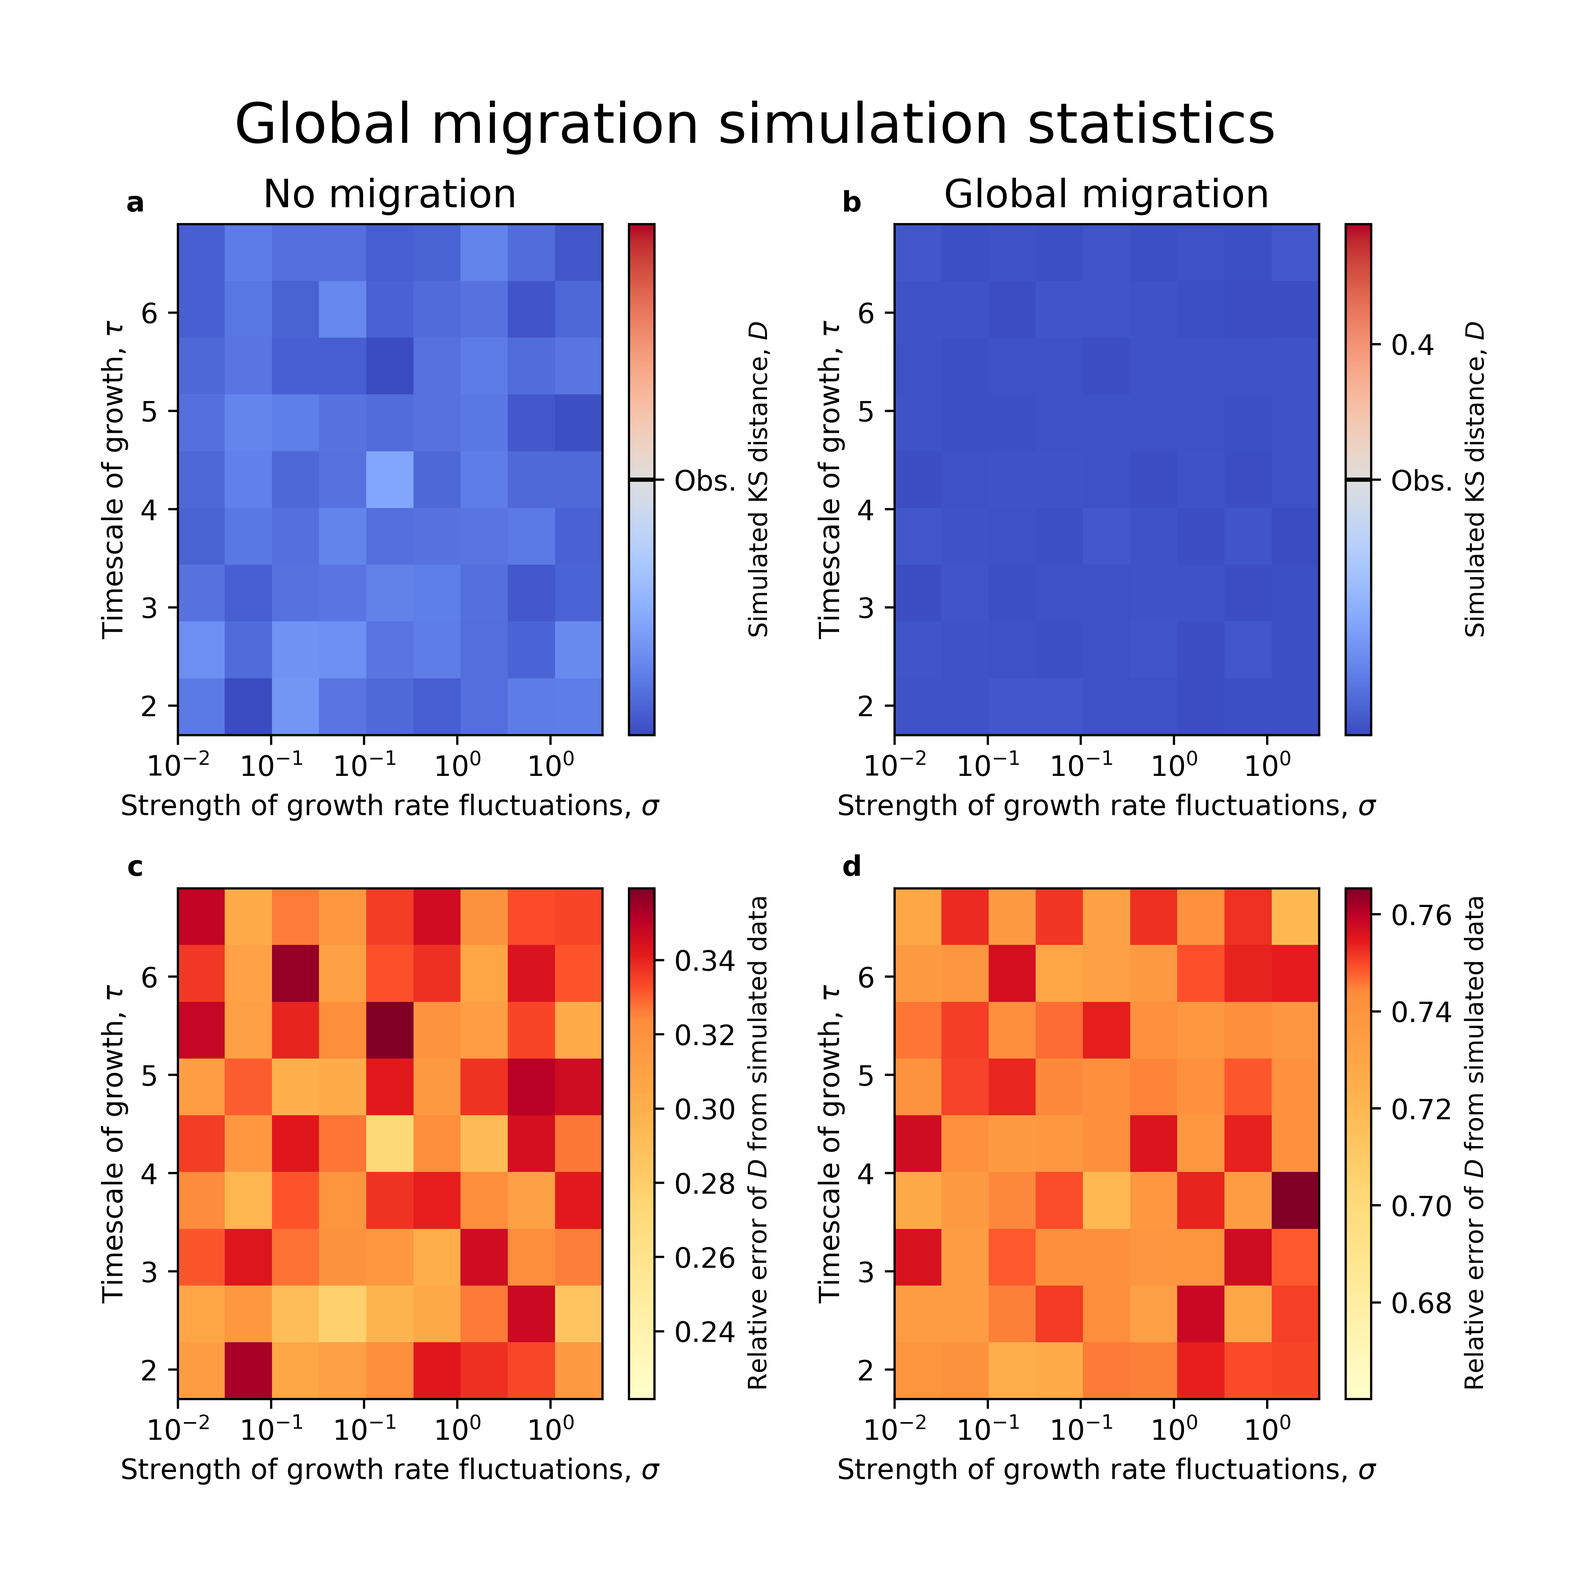
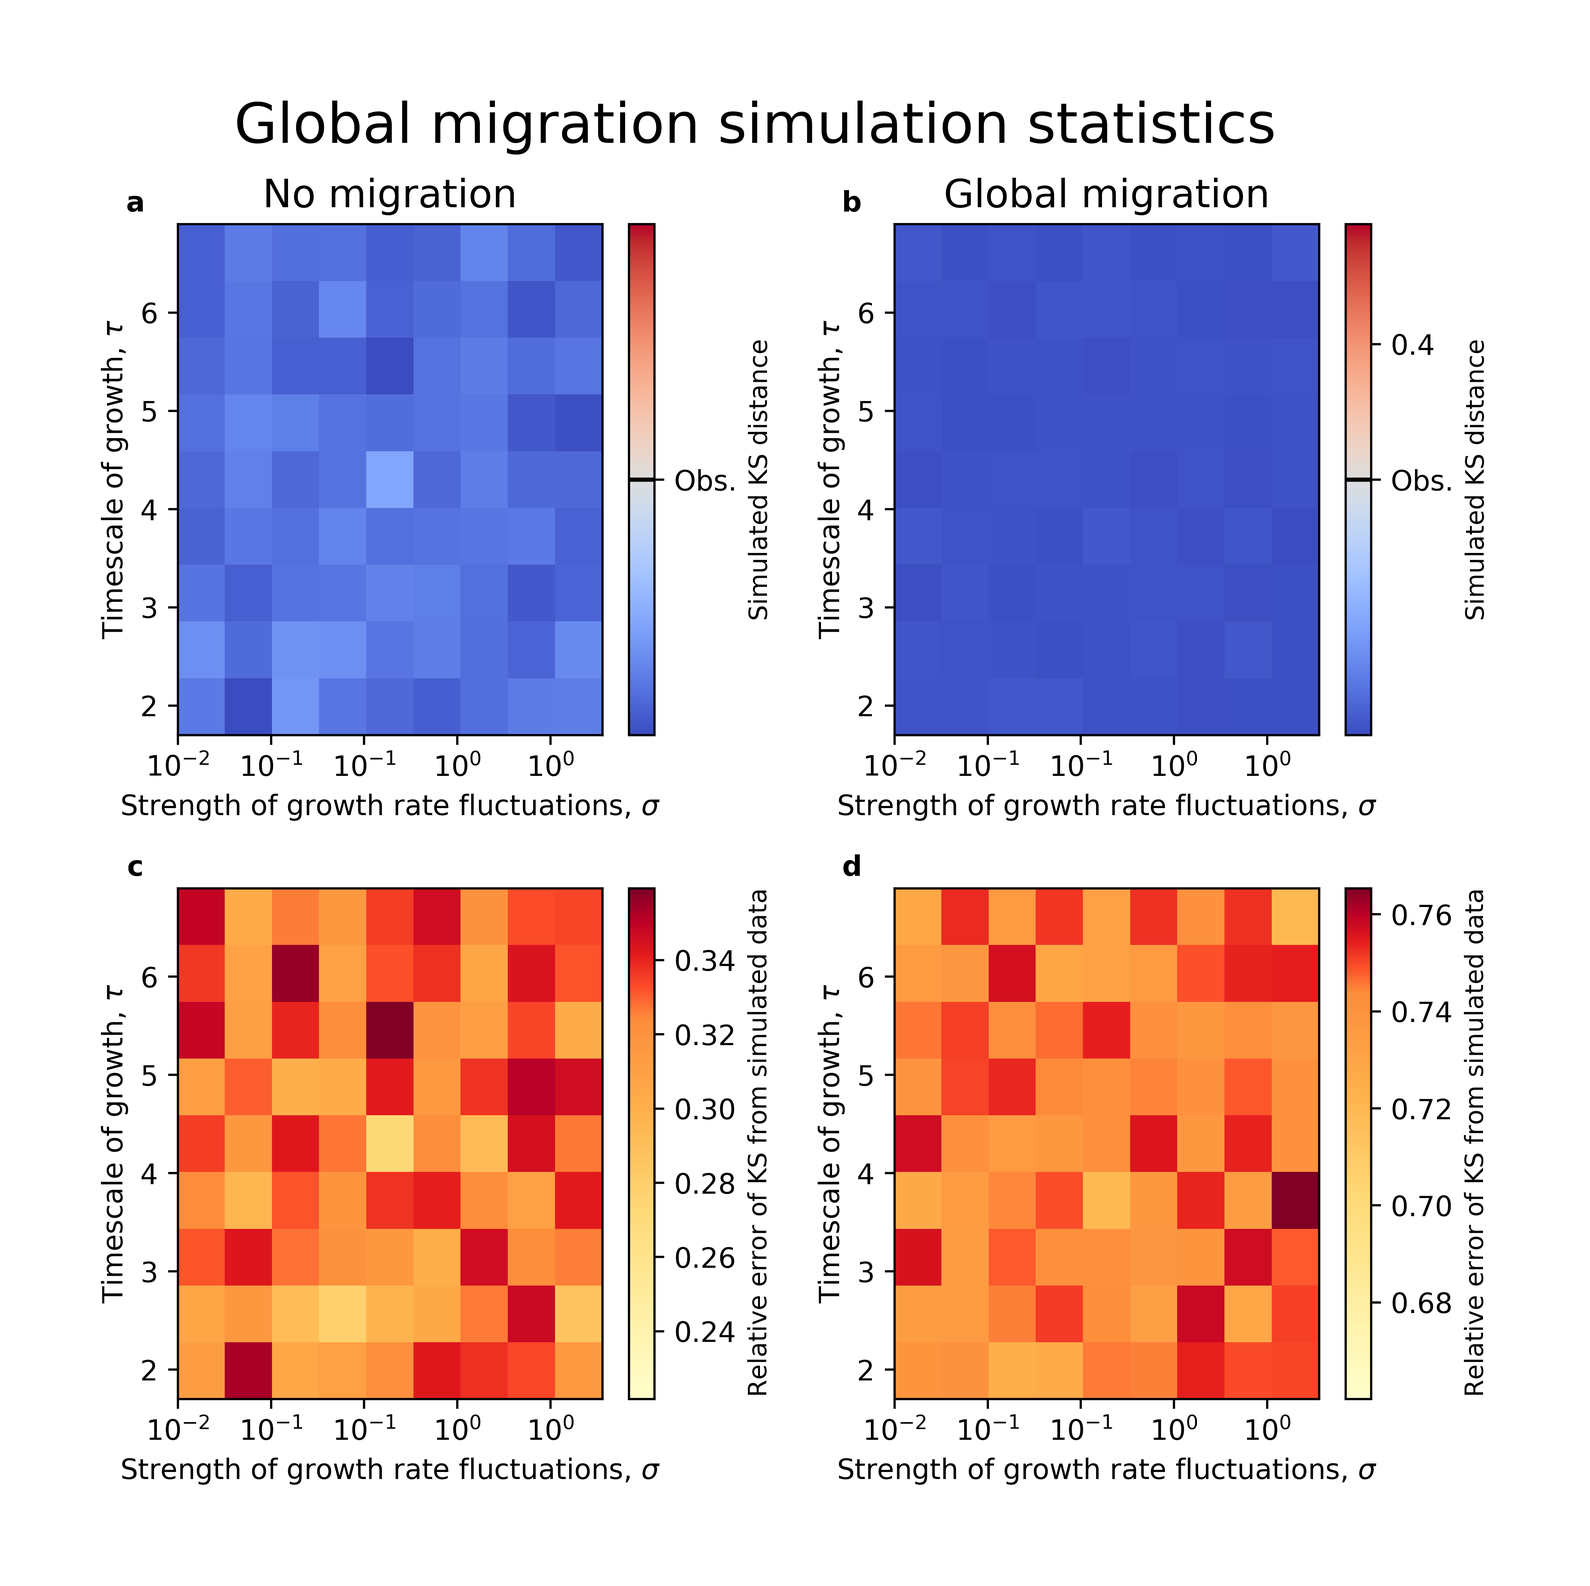
D ==> KS

diff --git a/Python/test_coprevalence.py b/Python/test_coprevalence.py
@@ -1,0 +1,164 @@
+from __future__ import division
+import os, sys
+import numpy as np
+import pandas as pd
+import matplotlib.pyplot as plt
+
+import scipy.stats as stats
+from scipy.stats import gamma
+import scipy.special as special
+#from macroecotools import obs_pred_rsquare
+import utils
+import plot_utils
+
+from scipy.optimize import fsolve
+from scipy.special import erf
+
+
+
+
+transfers = [12,18]
+
+
+
+
+def predict_cooccupancy(s_by_s, species, totreads=np.asarray([])):
+
+    # get squared inverse cv
+    # assume that entries are read counts.
+    rel_s_by_s_np = (s_by_s/s_by_s.sum(axis=0))
+
+    beta_all = []
+    mean_all = []
+
+    for s in rel_s_by_s_np:
+
+        var = np.var(s)
+        mean = np.mean(s)
+
+        beta = (mean**2)/var
+
+        mean_all.append(mean)
+        beta_all.append(beta)
+
+    beta_all = np.asarray(beta_all)
+    mean_all = np.asarray(mean_all)
+
+
+    s_by_s_presence_absence = np.where(s_by_s > 0, 1, 0)
+
+    occupancies = s_by_s_presence_absence.sum(axis=1) / s_by_s_presence_absence.shape[1]
+    covariance_observed = np.cov(s_by_s_presence_absence)
+    #rel_s_by_s_np = (s_by_s/s_by_s.sum(axis=0))
+    # calcualte total reads if no argument is passed
+    # sloppy quick fix
+    if len(totreads) == 0:
+        totreads = s_by_s.sum(axis=0)
+
+    # calculate mean and variance excluding zeros
+    # tf = mean relative abundances
+    tf = []
+    for afd in s_by_s:
+        afd_no_zeros = afd[afd>0]
+        tf.append(np.mean(afd_no_zeros/ totreads[afd>0]))
+        #tf.append(np.mean(afd_no_zeros/s_by_s.sum(axis=0)[afd>0]))
+
+    #tf = np.mean(rel_abundances)
+    tf = np.asarray(tf)
+    # go through and calculate the variance for each species
+
+    tvpf_list = []
+    for afd in s_by_s:
+        afd_no_zeros = afd[afd>0]
+
+        N_reads = s_by_s.sum(axis=0)[np.nonzero(afd)[0]]
+        #N_reads = s_by_s.sum(axis=0)[afd>0]
+
+        tvpf_list.append(np.mean(  (afd_no_zeros**2 - afd_no_zeros) / (totreads[afd>0]**2) ))
+
+    #tvpf = np.mean(tvpf_list)
+    tvpf = np.asarray(tvpf_list)
+
+    f = occupancies*tf
+    vf= occupancies*tvpf
+
+    # there's this command in Jacopo's code %>% mutate(vf = vf - f^2 )%>%
+    # It's applied after f and vf are calculated, so I think I can use it
+    # This should be equivalent to the mean and variance including zero
+    vf = vf - (f**2)
+
+    beta = (f**2)/vf
+    theta = f/beta
+
+    predicted_occupancies = []
+    # each species has it's own beta and theta, which is used to calculate predicted occupancy
+    for beta_i, theta_i in zip(beta,theta):
+        predicted_occupancies.append(1 -  ((1+theta_i*totreads)**(-1*beta_i )) )
+
+    predicted_occupancies = np.asarray(predicted_occupancies)
+    mean_predicted_occupancies = np.mean(predicted_occupancies, axis=1)
+
+    n_species = len(species)
+    observed_covariance_coprevalence = []
+    predicted_covariance_coprevalence = []
+    for i in range(n_species):
+
+        for j in range(i):
+
+            prevalence_i = predicted_occupancies[i,:]
+            prevalence_j = predicted_occupancies[j,:]
+
+            coprevalence_ij = np.mean(prevalence_i*prevalence_j)
+
+            if np.isnan(coprevalence_ij) == True:
+                continue
+
+            covariance_coprevalence_ij = coprevalence_ij - mean_predicted_occupancies[i]*mean_predicted_occupancies[j]
+            predicted_covariance_coprevalence.append(covariance_coprevalence_ij)
+
+
+            observed_covariance_coprevalence.append(covariance_observed[i,j])
+
+
+    observed_covariance_coprevalence = np.asarray(observed_covariance_coprevalence)
+    predicted_covariance_coprevalence = np.asarray(predicted_covariance_coprevalence)
+
+    return observed_covariance_coprevalence, predicted_covariance_coprevalence
+
+
+
+
+
+fig, ax_occupancy = plt.subplots(figsize=(4,4))
+
+for migration_innoculum_idx, migration_innoculum in enumerate(utils.migration_innocula):
+    for transfer in transfers:
+
+        s_by_s, ESVs, comm_rep_list = utils.get_s_by_s_migration_test_singleton(migration=migration_innoculum[0], inocula=migration_innoculum[1], transfer=transfer)
+        rel_s_by_s = (s_by_s/s_by_s.sum(axis=0))
+
+        color_ = utils.color_dict_range[migration_innoculum][transfer-3]
+        color_ = color_.reshape(1,-1)
+
+        # occupancy
+        observed_covariance_coprevalence, predicted_covariance_coprevalence = predict_cooccupancy(s_by_s, ESVs)
+        print(np.corrcoef(observed_covariance_coprevalence, predicted_covariance_coprevalence)[0,1] )
+
+        observed_covariance_coprevalence = observed_covariance_coprevalence**2
+        predicted_covariance_coprevalence = predicted_covariance_coprevalence**2
+
+        to_keep_idx = (predicted_covariance_coprevalence > 1e-6) & (observed_covariance_coprevalence>1e-6)
+        observed_covariance_coprevalence = observed_covariance_coprevalence[to_keep_idx]
+        predicted_covariance_coprevalence = predicted_covariance_coprevalence[to_keep_idx]
+
+        ax_occupancy.scatter(observed_covariance_coprevalence, predicted_covariance_coprevalence, alpha=0.5, c=color_, s=18, zorder=2)#, linewidth=0.8, edgecolors='k')
+
+ax_occupancy.set_xscale('log', basex=10)
+ax_occupancy.set_yscale('log', basey=10) 
+
+
+fig.subplots_adjust(wspace=0.3, hspace=0.3)
+fig.savefig(utils.directory + "/figs/cooccupancy.png", format='png', bbox_inches = "tight", pad_inches = 0.5, dpi = 600)
+plt.close()
+
+        

diff --git a/Python/plot_abundance_ratio_temporal_cv.py b/Python/plot_abundance_ratio_temporal_cv.py
@@ -355,7 +355,7 @@ for experiment_idx, experiment in enumerate(experiments):
     print('KS test constrained on ASV identity')
     print(experiment[0], ks_statistic_cv_over_all_species_t, p_perm)
 
-    ax_cv.text(0.2  , 0.9, r'$D = $' + str(round(ks_statistic_cv_over_all_species_t, 3)), fontsize=10, ha='center', va='center', transform=ax_cv.transAxes)
+    ax_cv.text(0.2  , 0.9, r'$\mathrm{KS} = $' + str(round(ks_statistic_cv_over_all_species_t, 3)), fontsize=10, ha='center', va='center', transform=ax_cv.transAxes)
     ax_cv.text(0.2, 0.8, r'$P = $' + str(round(p_perm, 3)), fontsize=10, ha='center', va='center', transform=ax_cv.transAxes)
 
 
@@ -429,15 +429,20 @@ ax_ks_cv_simulation_global_migration = plt.subplot2grid((2, 2), (1, 1), colspan=
 
 
 ax_ks_cv_simulation_no_migration.hist(ks_cv_simulation_no_migration, lw=3, alpha=0.8, bins=10, color=utils.color_dict[('No_migration',4)], histtype='stepfilled', density=True, zorder=2)
-ax_ks_cv_simulation_no_migration.axvline(x=0.1, ls='--', lw=3, c='k', label='Observed ' +  r'$D$')
+#ax_ks_cv_simulation_no_migration.axvline(x=0.1, ls='--', lw=3, c='k', label='Observed ' +  r'$D$')
+ax_ks_cv_simulation_no_migration.axvline(x=0.1, ls='--', lw=3, c='k', label='Observed ' +  r'$\mathrm{KS}$')
+
 ax_ks_cv_simulation_no_migration.legend(loc="upper right", fontsize=8)
-ax_ks_cv_simulation_no_migration.set_xlabel('Simulated ' + r'$D$' + ' from optimal\n' + r'$\tau = $' + str(round(best_tau, 2)) + ' and ' + r'$\sigma = $' + str(round(best_sigma, 3)), fontsize=11)
+#ax_ks_cv_simulation_no_migration.set_xlabel('Simulated ' + r'$D$' + ' from optimal\n' + r'$\tau = $' + str(round(best_tau, 2)) + ' and ' + r'$\sigma = $' + str(round(best_sigma, 3)), fontsize=11)
+ax_ks_cv_simulation_no_migration.set_xlabel('Simulated ' + r'$\mathrm{KS}$' + ' from optimal\n' + r'$\tau = $' + str(round(best_tau, 2)) + ' and ' + r'$\sigma = $' + str(round(best_sigma, 3)), fontsize=11)
+
 ax_ks_cv_simulation_no_migration.set_ylabel('Probability density',  fontsize=11)
 
 ax_ks_cv_simulation_global_migration.hist(ks_cv_simulation_global_migration, lw=3, alpha=0.8, bins=10, color=utils.color_dict[('Global_migration',4)], histtype='stepfilled', density=True, zorder=2)
 ax_ks_cv_simulation_global_migration.axvline(x=0.2845138055222089, ls='--', lw=3, c='k', label='Observed ' +  r'$D$')
 ax_ks_cv_simulation_global_migration.legend(loc="upper right", fontsize=8)
-ax_ks_cv_simulation_global_migration.set_xlabel('Simulated ' + r'$D$' + ' from optimal\n' + r'$\tau = $' + str(round(best_tau, 2)) + ' and ' + r'$\sigma = $' + str(round(best_sigma, 3)), fontsize=11)
+#ax_ks_cv_simulation_global_migration.set_xlabel('Simulated ' + r'$D$' + ' from optimal\n' + r'$\tau = $' + str(round(best_tau, 2)) + ' and ' + r'$\sigma = $' + str(round(best_sigma, 3)), fontsize=11)
+ax_ks_cv_simulation_global_migration.set_xlabel('Simulated ' + r'$\mathrm{KS}$' + ' from optimal\n' + r'$\tau = $' + str(round(best_tau, 2)) + ' and ' + r'$\sigma = $' + str(round(best_sigma, 3)), fontsize=11)
 ax_ks_cv_simulation_global_migration.set_ylabel('Probability density',  fontsize=11)
 
 

diff --git a/Python/plot_afd_migration.py b/Python/plot_afd_migration.py
@@ -208,7 +208,9 @@ for experiment_idx, experiment in enumerate(experiments):
     ks_statistic = ks_dict[experiment][rescaled_status]['D']
     p_value = ks_dict[experiment][rescaled_status]['pvalue']
 
-    ax.text(0.70,0.7, '$D=%0.3f$' % ks_statistic, fontsize=12, color='k', ha='center', va='center', transform=ax.transAxes )
+    #ax.text(0.70,0.7, '$D=%0.3f$' % ks_statistic, fontsize=12, color='k', ha='center', va='center', transform=ax.transAxes )
+    ax.text(0.70,0.7, '$\mathrm{KS}=%0.3f$' % ks_statistic, fontsize=12, color='k', ha='center', va='center', transform=ax.transAxes )
+
     ax.text(0.68,0.62, utils.get_p_value(p_value), fontsize=12, color='k', ha='center', va='center', transform=ax.transAxes )
 
     ax.set_title(utils.titles_no_inocula_dict[experiment], fontsize=12, fontweight='bold' )
@@ -269,9 +271,15 @@ for treatment_idx, treatment in enumerate(treatments_no_innoculum):
 
     ax.hist(ks_simulated, lw=3, alpha=0.8, bins=10, color=utils.color_dict[experiments[treatment_idx]], histtype='stepfilled', density=True, zorder=2)
     #ax.axvline(x=0, ls=':', lw=3, c='k', label='Null')
-    ax.axvline(x=ks_observed, ls='--', lw=3, c='k', label='Observed ' +  r'$D$')
-    ax.axvline(x=np.median(ks_simulated), ls=':', lw=3, c='k', label='Median simulated ' +  r'$D$')
-    ax.set_xlabel('Simulated ' + r'$D$' + ' from optimal\n' + r'$\tau = $' + str(round(tau_best, 2)) + ' and ' + r'$\sigma = $' + str(round(sigma_best, 3)), fontsize=11)
+    #ax.axvline(x=ks_observed, ls='--', lw=3, c='k', label='Observed ' +  r'$D$')
+    ax.axvline(x=ks_observed, ls='--', lw=3, c='k', label='Observed ' +  r'$\mathrm{KS}$')
+
+    #ax.axvline(x=np.median(ks_simulated), ls=':', lw=3, c='k', label='Median simulated ' +  r'$D$')
+    ax.axvline(x=np.median(ks_simulated), ls=':', lw=3, c='k', label='Median simulated ' +  r'$\mathrm{KS}$')
+
+    #ax.set_xlabel('Simulated ' + r'$D$' + ' from optimal\n' + r'$\tau = $' + str(round(tau_best, 2)) + ' and ' + r'$\sigma = $' + str(round(sigma_best, 3)), fontsize=11)
+    ax.set_xlabel('Simulated ' + r'$\mathrm{KS}$' + ' from optimal\n' + r'$\tau = $' + str(round(tau_best, 2)) + ' and ' + r'$\sigma = $' + str(round(sigma_best, 3)), fontsize=11)
+
     ax.set_ylabel('Probability density',  fontsize=11)
 
     ax.text(-0.1, 1.04, plot_utils.sub_plot_labels[3 + treatment_idx], fontsize=10, fontweight='bold', ha='center', va='center', transform=ax.transAxes)

diff --git a/Python/plot_abundance_ratio_temporal_cv_heatmap.py b/Python/plot_abundance_ratio_temporal_cv_heatmap.py
@@ -426,7 +426,8 @@ for treatment_idx, treatment in enumerate(['no_migration', 'global_migration']):
     delta_range = max([observed_ks_cv - np.amin(tau_delta_cv_all),  np.amax(tau_delta_cv_all) - observed_ks_cv])
     pcm_slope_rho = ax_simulation_cv.pcolor(x_axis_log10, y_axis, tau_delta_cv_all, cmap='coolwarm', norm=colors.TwoSlopeNorm(vmin=observed_ks_cv - delta_range, vcenter=observed_ks_cv, vmax=observed_ks_cv + delta_range))
     clb_slope_rho = plt.colorbar(pcm_slope_rho, ax=ax_simulation_cv)
-    clb_slope_rho.set_label(label='Simulated KS distance, ' + r'$D$', fontsize=9)
+    #clb_slope_rho.set_label(label='Simulated KS distance, ' + r'$D$', fontsize=9)
+    clb_slope_rho.set_label(label='Simulated KS distance', fontsize=9)
     ax_simulation_cv.set_xlabel("Strength of growth rate fluctuations, " + r'$\sigma$', fontsize = 10)
     ax_simulation_cv.set_ylabel("Timescale of growth, " + r'$\tau$', fontsize = 10)
     ax_simulation_cv.xaxis.set_major_formatter(plot_utils.fake_log)
@@ -443,7 +444,8 @@ for treatment_idx, treatment in enumerate(['no_migration', 'global_migration']):
 
     pcm_slope_rho_error = ax_simulation_cv_error.pcolor(x_axis_log10, y_axis, tau_delta_cv_error_all, cmap='YlOrRd', norm=colors.TwoSlopeNorm(vmin=np.amin(tau_delta_cv_error_all), vcenter=np.median(np.ndarray.flatten(tau_delta_cv_error_all)), vmax=np.amax(tau_delta_cv_error_all)))
     clb_slope_rho_error = plt.colorbar(pcm_slope_rho_error, ax=ax_simulation_cv_error)
-    clb_slope_rho_error.set_label(label='Relative error of ' + r'$D$' + ' from simulated data', fontsize=9)
+    #clb_slope_rho_error.set_label(label='Relative error of ' + r'$D$' + ' from simulated data', fontsize=9)
+    clb_slope_rho_error.set_label(label='Relative error of ' + r'$\mathrm{KS}$' + ' from simulated data', fontsize=9)
     ax_simulation_cv_error.set_xlabel("Strength of growth rate fluctuations, " + r'$\sigma$', fontsize = 10)
     ax_simulation_cv_error.set_ylabel("Timescale of growth, " + r'$\tau$', fontsize = 10)
     ax_simulation_cv_error.xaxis.set_major_formatter(plot_utils.fake_log)

diff --git a/Python/plot_taylors_law_migration.py b/Python/plot_taylors_law_migration.py
@@ -54,7 +54,8 @@ for migration_innoculum_idx, migration_innoculum in enumerate(migration_innocula
         y_log10_null_range = 10 ** (utils.slope_null*x_log10_range + intercept)
 
         ax_plot.plot(10**x_log10_range, y_log10_fit_range, c='k', lw=2.5, linestyle='-', zorder=2, label="OLS regression slope")
-        ax_plot.plot(10**x_log10_range, y_log10_null_range, c='k', lw=2.5, linestyle='--', zorder=2, label="Slope = 2")
+        #ax_plot.plot(10**x_log10_range, y_log10_null_range, c='k', lw=2.5, linestyle='--', zorder=2, label="Slope = 2")
+        ax_plot.plot(10**x_log10_range, y_log10_null_range, c='k', lw=2.5, linestyle='--', zorder=2, label=r'$y \sim x^{2}$')
 
         ax_plot.set_xscale('log', basex=10)
         ax_plot.set_yscale('log', basey=10)
@@ -69,6 +70,11 @@ for migration_innoculum_idx, migration_innoculum in enumerate(migration_innocula
 
             title = utils.titles_no_inocula_dict[migration_innoculum]
             ax_plot.set_title(title, fontsize=12, fontweight='bold' )
+
+
+        if plot_count == 0:
+            ax_plot.legend(loc="lower right", fontsize=8)
+
 
 
         #t_value = (slope - (utils.slope_null))/std_err
@@ -86,7 +92,7 @@ for migration_innoculum_idx, migration_innoculum in enumerate(migration_innocula
         sys.stdout.write("Transfer %d, Intercept = %g\n" % (transfer, intercept))
         #print(slope, intercept)
 
-        ax_plot.legend(loc="lower right", fontsize=8)
+        
 
         if migration_innoculum_idx == 0:
 
@@ -198,7 +204,7 @@ for treatment_idx, treatment in enumerate(treatments_no_innoculum):
     ax = plt.subplot2grid((3, 3), (2, treatment_idx), colspan=1)
 
     p_value = sum(slope_t_test > t_slope_all[treatment_idx])/len(slope_t_test)
-    print(p_value)
+    #print(p_value)
 
     ax.hist(slope_t_test, lw=3, alpha=0.8, bins=10, color=utils.color_dict[migration_innocula[treatment_idx]], histtype='stepfilled', density=True, zorder=2)
     ax.axvline(x=0, ls=':', lw=3, c='k', label='Null')

diff --git a/Python/plot_afd_migration_heatmap.py b/Python/plot_afd_migration_heatmap.py
@@ -244,7 +244,8 @@ for treatment_idx, treatment in enumerate(['no_migration', 'parent_migration', '
     pcm_slope = ax_ks.pcolor(x_axis_log10, y_axis, ks_rescaled_12_vs_18_all, cmap='coolwarm', norm=colors.TwoSlopeNorm(vmin=observed-delta_range, vcenter=observed, vmax=observed+delta_range))
     #fmt = lambda x, pos: '{:.1%}'.format(x)
     clb_slope = plt.colorbar(pcm_slope, ax=ax_ks)
-    clb_slope.set_label(label='KS disance between AFDs, ' + r'$D$' , fontsize=9)
+    #clb_slope.set_label(label='KS distance between AFDs, ' + r'$D$' , fontsize=9)
+    clb_slope.set_label(label='KS distance between AFDs' , fontsize=9)
     ax_ks.set_xlabel("Strength of growth rate fluctuations, " + r'$\sigma$', fontsize = 10)
     ax_ks.set_ylabel("Timescale of growth, " + r'$\tau$', fontsize = 10)
     ax_ks.xaxis.set_major_formatter(plot_utils.fake_log)
@@ -276,7 +277,9 @@ for treatment_idx, treatment in enumerate(['no_migration', 'parent_migration', '
     # slope error
     pcm_slope_error = ax_ks_error.pcolor(x_axis_log10, y_axis, ks_rescaled_12_vs_18_error_all, cmap='YlOrRd', norm=colors.TwoSlopeNorm(vmin=np.amin(ks_rescaled_12_vs_18_error_all), vcenter=np.median(np.ndarray.flatten(ks_rescaled_12_vs_18_error_all)), vmax=np.amax(ks_rescaled_12_vs_18_error_all)))
     clb_slope_error = plt.colorbar(pcm_slope_error, ax=ax_ks_error)
-    clb_slope_error.set_label(label='Relative error of ' + r'$D$'  + ' from simulated data', fontsize=9)
+    #clb_slope_error.set_label(label='Relative error of ' + r'$D$'  + ' from simulated data', fontsize=9)
+    clb_slope_error.set_label(label='Relative error of ' + r'$\mathrm{KS}$'  + ' from simulated data', fontsize=9)
+
     ax_ks_error.set_xlabel("Strength of growth rate fluctuations, " + r'$\sigma$', fontsize = 11)
     ax_ks_error.set_ylabel("Timescale of growth, " + r'$\tau$', fontsize = 11)
     ax_ks_error.xaxis.set_major_formatter(plot_utils.fake_log)

diff --git a/Python/plot_abundance_hist_parent_vs_descendant.py b/Python/plot_abundance_hist_parent_vs_descendant.py
@@ -111,7 +111,9 @@ for migration_innoculum_idx, migration_innoculum in enumerate(migration_innocula
     ax.legend(loc="upper right", fontsize=8)
 
 
-    ax.text(0.8,0.81, r'$D = {{{}}}$'.format(str(round(ks_statistic, 3))), fontsize=11, color='k', ha='center', va='center', transform=ax.transAxes)
+    #ax.text(0.8,0.81, r'$D = {{{}}}$'.format(str(round(ks_statistic, 3))), fontsize=11, color='k', ha='center', va='center', transform=ax.transAxes)
+    ax.text(0.8,0.81, r'$\mathrm{KS} = $' + str(round(ks_statistic, 3)), fontsize=11, color='k', ha='center', va='center', transform=ax.transAxes)
+    
     ax.text(0.8,0.73, r'$P < 0.05$', fontsize=11, color='k', ha='center', va='center', transform=ax.transAxes)
 
 

diff --git a/Python/plot_mra_parent_comparison.py b/Python/plot_mra_parent_comparison.py
@@ -95,7 +95,9 @@ ax_hist.legend(loc="upper right", fontsize=8)
 ks_statistic = 0.3899878193141073
 p_value = 0
 
-ax_hist.text(0.8,0.81, r'$D = {{{}}}$'.format(str(round(ks_statistic, 3))), fontsize=11, color='k', ha='center', va='center', transform=ax_hist.transAxes)
+#ax_hist.text(0.8,0.81, r'$D = {{{}}}$'.format(str(round(ks_statistic, 3))), fontsize=11, color='k', ha='center', va='center', transform=ax_hist.transAxes)
+ax_hist.text(0.8,0.81, r'$\mathrm{KS} = $' + str(round(ks_statistic, 3)), fontsize=11, color='k', ha='center', va='center', transform=ax_hist.transAxes)
+
 ax_hist.text(0.8,0.73, r'$P < 0.05$', fontsize=11, color='k', ha='center', va='center', transform=ax_hist.transAxes)
 
 

diff --git a/Python/plot_occupancy.py b/Python/plot_occupancy.py
@@ -15,8 +15,6 @@ from scipy.optimize import fsolve
 from scipy.special import erf
 
 
-remove_zeros = True
-
 
 
 prevalence_range = np.logspace(-4, 1, num=1000)
